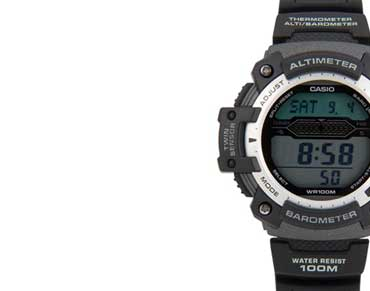
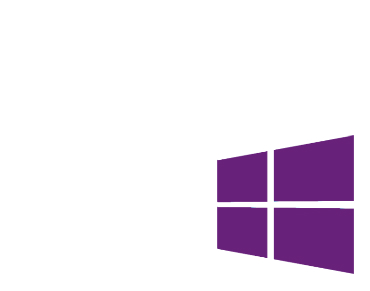
Modifiqué la imagen principal, y la de las tres categorías principales (Que sería Android, IOS, y WP). También le agregué el navicon

diff --git a/CoreVisesWebSite/index.html b/CoreVisesWebSite/index.html
@@ -1,4 +1,4 @@
-<!--A Design by W3layouts
+<!--A Design by W3layouts
 Author: W3layout
 Author URL: http://w3layouts.com
 License: Creative Commons Attribution 3.0 Unported
@@ -7,7 +7,7 @@ License URL: http://creativecommons.org/licenses/by/3.0/
 <!DOCTYPE HTML>
 <html>
 <head>
-<title>Watches an E-Commerce online Shopping Category Flat Bootstrap Responsive Website Template| Home :: w3layouts</title>
+<title>Kegg Phones</title>
 <meta name="viewport" content="width=device-width, initial-scale=1">
 <meta http-equiv="Content-Type" content="text/html; charset=utf-8" />
 <meta name="keywords" content="Watches Responsive web template, Bootstrap Web Templates, Flat Web Templates, Android Compatible web template, 
@@ -28,6 +28,8 @@ Smartphone Compatible web template, free webdesigns for Nokia, Samsung, LG, Sony
 <script>$(document).ready(function(){$(".megamenu").megamenu();});</script>
 <script src="js/jquery.easydropdown.js"></script>
 <script src="js/simpleCart.min.js"> </script>
+    <!-- ícono --->
+    <link rel="shortcut icon" type="image/x-icon" href="images/Logo.png" />
 </head>
 <body>
 	<div class="banner">
@@ -43,9 +45,9 @@ Smartphone Compatible web template, free webdesigns for Nokia, Samsung, LG, Sony
            <div class="header_top_right">
 		  	 <div class="lang_list">
 				<select tabindex="4" class="dropdown">
-					<option value="" class="label" value="">$ Us</option>
-					<option value="1">Dollar</option>
-					<option value="2">Euro</option>
+					<option value="0" class="label">₡ Colon</option>
+					<option value="1">$ Dollar</option>
+					<option value="2">₡ Colon</option>
 				</select>
 			 </div>
 			 <ul class="header_user_info">
@@ -78,7 +80,7 @@ Smartphone Compatible web template, free webdesigns for Nokia, Samsung, LG, Sony
 	  </div>
 	  <div class="header_bottom">
 	   <div class="logo">
-		  <h1><a href="index.html"><span class="m_1">W</span>atches</a></h1>
+		  <h1><a href="index.html"><span class="m_1">Kegg</span> Phones</a></h1>
 	   </div>
    	   <div class="menu">
 	     <ul class="megamenu skyblue">
@@ -260,7 +262,7 @@ Smartphone Compatible web template, free webdesigns for Nokia, Samsung, LG, Sony
                 <div class="bannerBox">
                    <img src="images/w1.jpg" class="item-img" title="" alt="" width="100%" height="100%">
                    <div class="item-html">
-                      <h3>Men's<span>Watches</span></h3>
+                      <h3>Android</h3>
                       <p>Lorem ipsum dolor sit amet consectetur adipisicing.</p>
                       <button>Shop now!</button>
                    </div>
@@ -272,7 +274,7 @@ Smartphone Compatible web template, free webdesigns for Nokia, Samsung, LG, Sony
                 <div class="bannerBox">
                    <img src="images/w3.jpg" class="item-img" title="" alt="" width="100%" height="100%">
                    <div class="item-html">
-                      <h3>Men's<span>Watches</span></h3>
+                      <h3>iOS</span></h3>
                       <p>Lorem ipsum dolor sit amet consectetur adipisicing.</p>
                       <button>Shop now!</button>
                    </div>
@@ -284,7 +286,7 @@ Smartphone Compatible web template, free webdesigns for Nokia, Samsung, LG, Sony
                 <div class="bannerBox">
                    <img src="images/w2.jpg" class="item-img" title="" alt="" width="100%" height="100%">
                    <div class="item-html">
-                      <h3>Women's<span>Watches</span></h3>
+                      <h3>Windows<span>Phone</span></h3>
                       <p>Lorem ipsum dolor sit amet consectetur adipisicing.</p>
                       <button>Shop now!</button>
                    </div>
